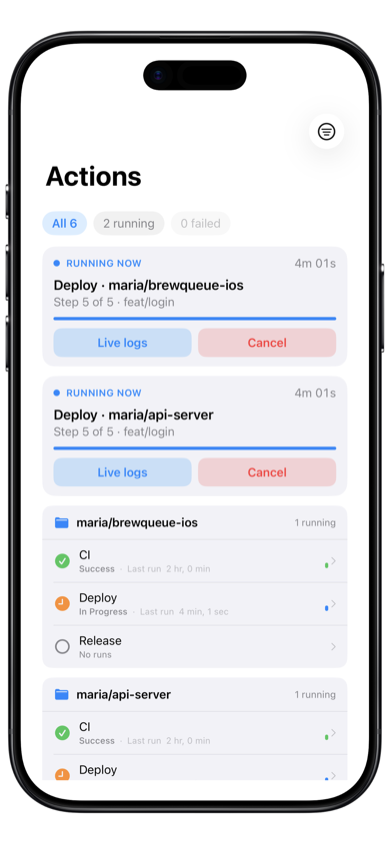
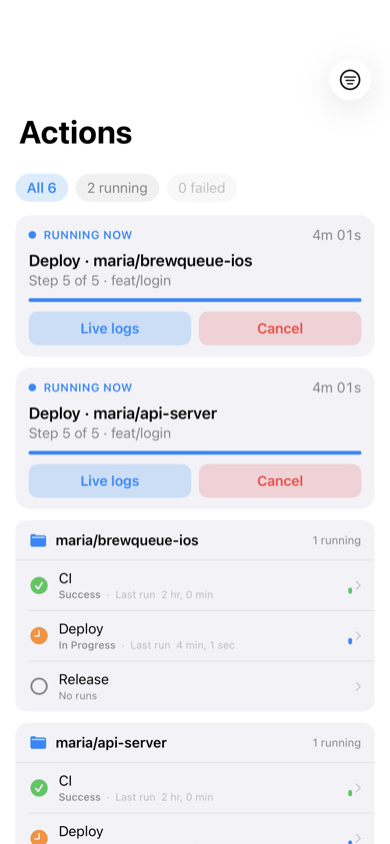
fix: site screenshots from raw GitBobaApp/screenshots (no bezel mat)
marketing/screenshots are bezeled with a white background; use gitignored
simulator PNGs instead so showcase cards sit cleanly on the dark page.

diff --git a/css/home.css b/css/home.css
@@ -354,6 +354,7 @@
       width: min(220px, 72vw);
       height: auto;
       border-radius: 22px;
+      border: 1px solid var(--border);
       box-shadow: 0 32px 64px oklch(0 0 0 / 0.45);
     }
     .showcase-caption {

diff --git a/scripts/generate-og-share.py b/scripts/generate-og-share.py
@@ -14,7 +14,7 @@ except ImportError:
 
 ROOT = os.path.dirname(os.path.dirname(os.path.abspath(__file__)))
 APP_REPO = os.environ.get("GITBOBA_APP_REPO", os.path.expanduser("~/development/GitBobaApp"))
-PHONE_SHOT = os.path.join(APP_REPO, "marketing", "screenshots", "home-1242x2688.png")
+PHONE_SHOT = os.path.join(APP_REPO, "screenshots", "home-1242x2688.png")
 OUT = os.path.join(ROOT, "images", "og-share.png")
 
 W, H = 1200, 630
